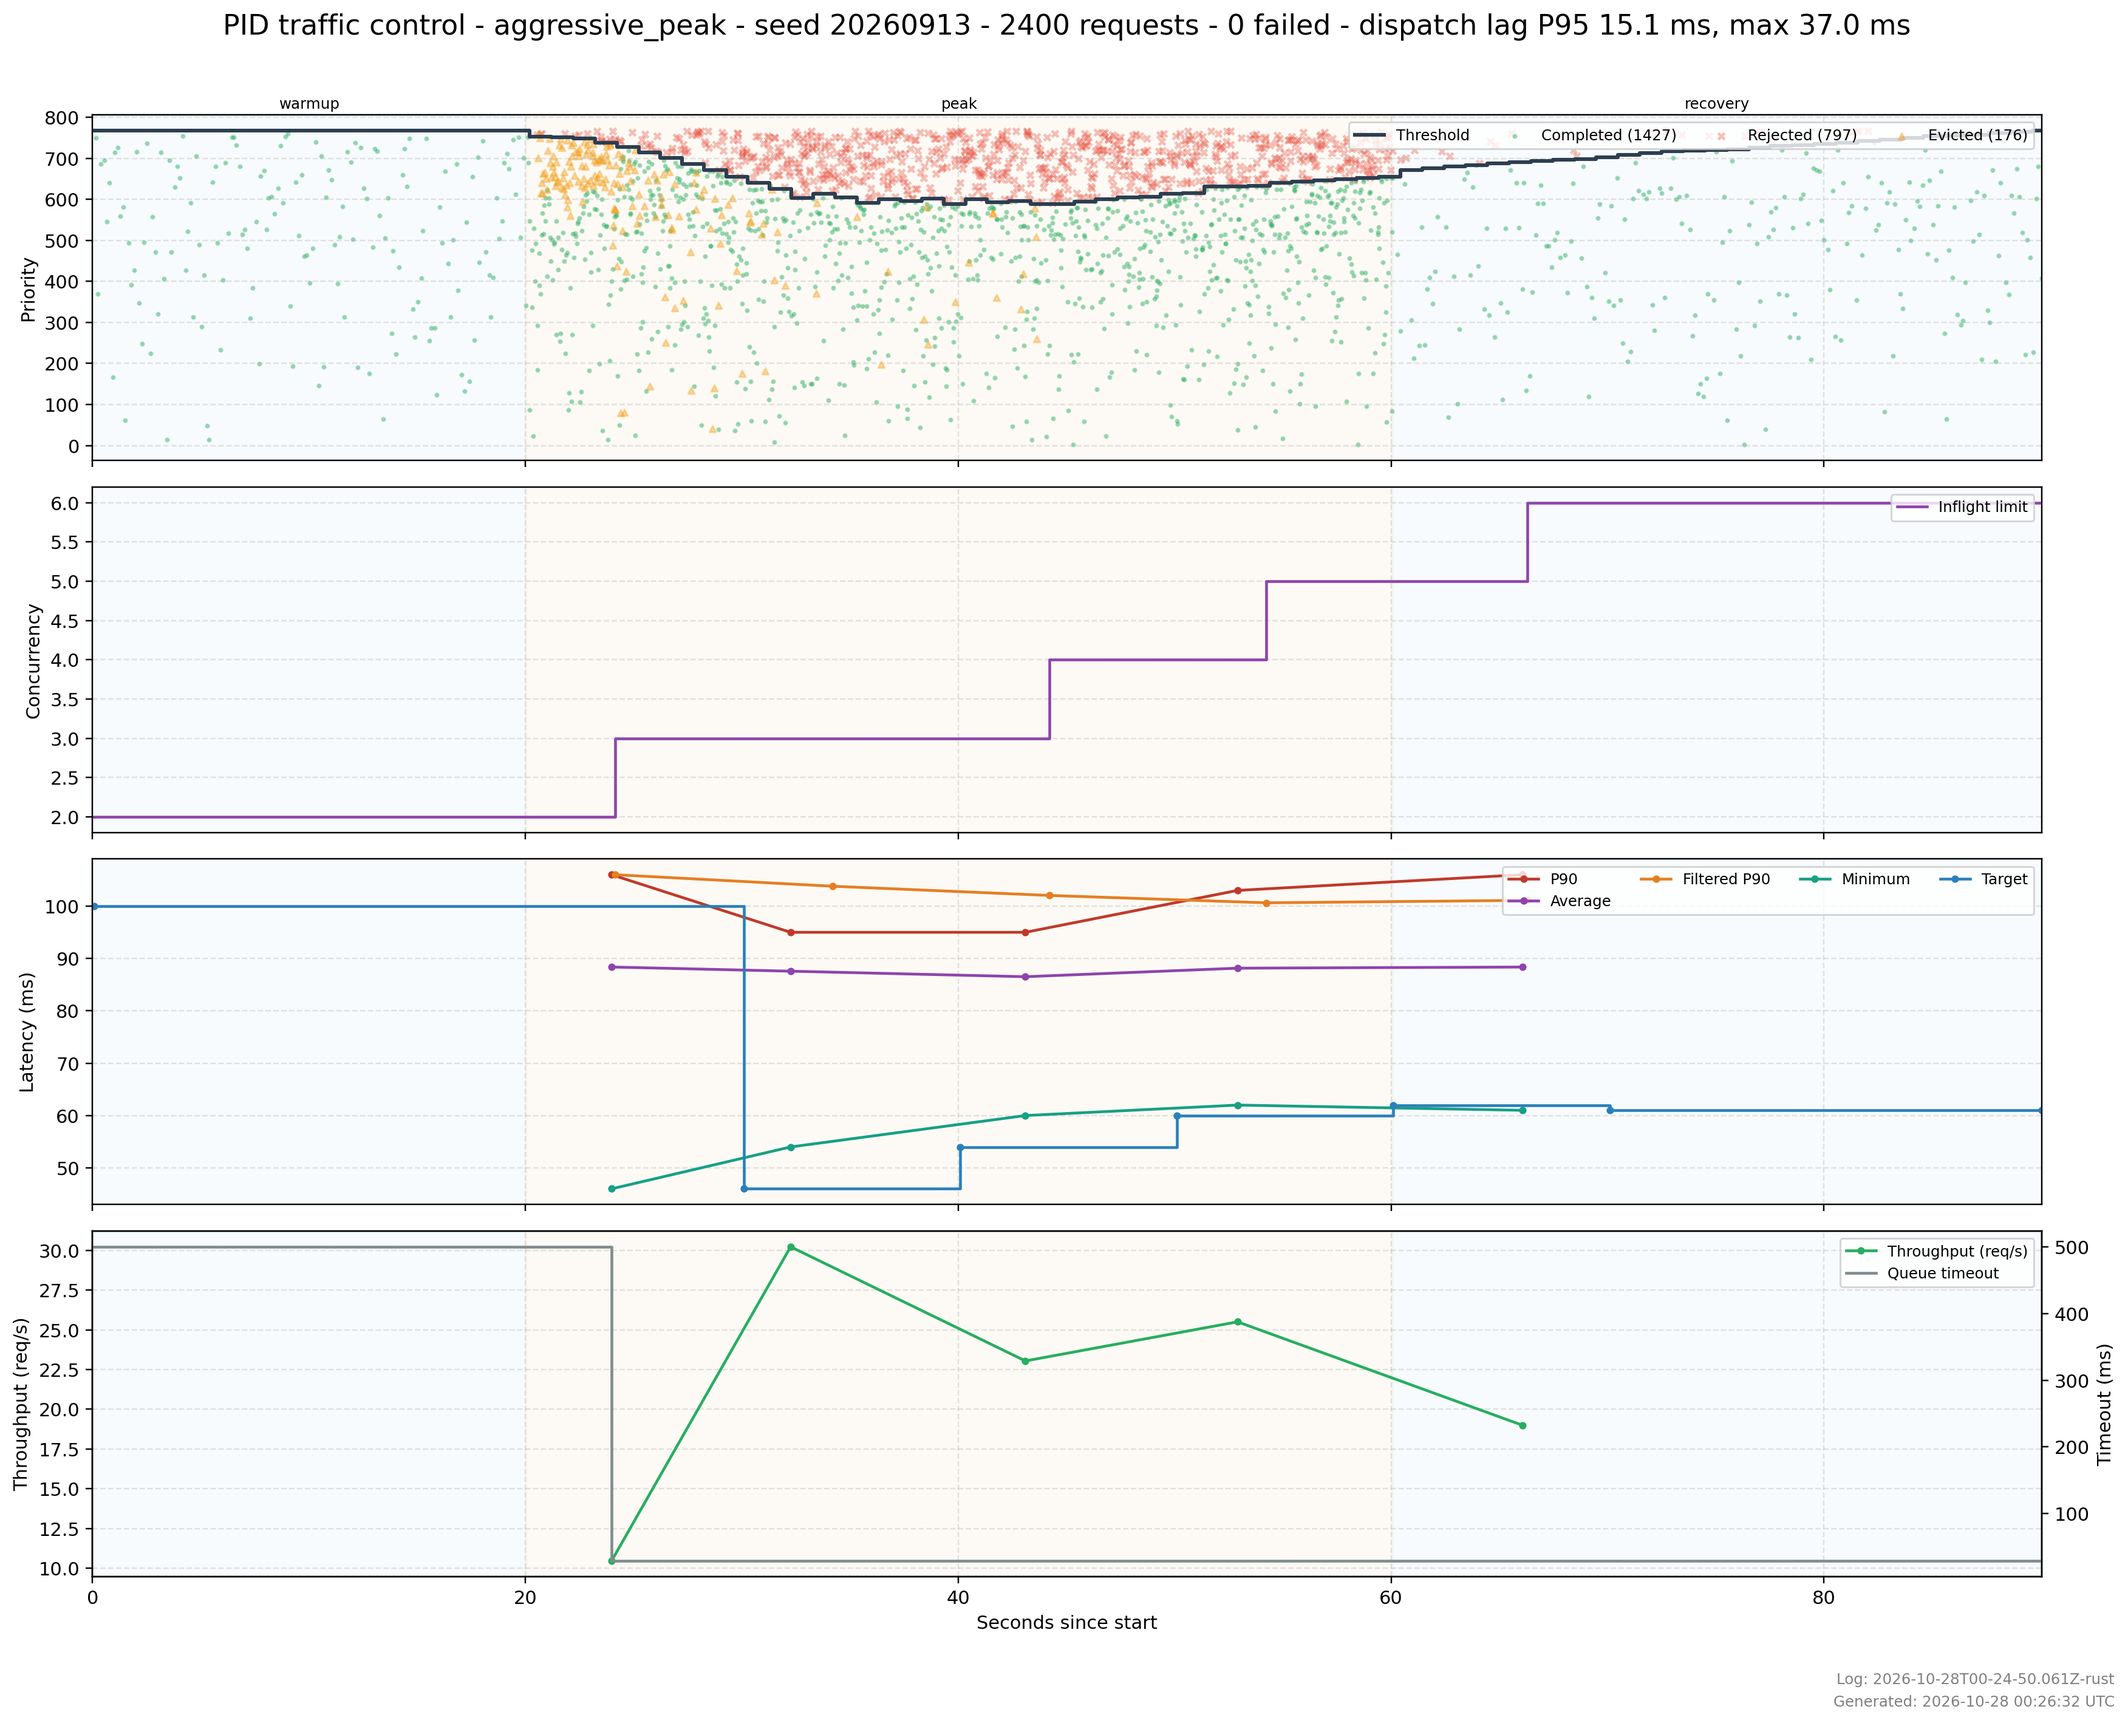
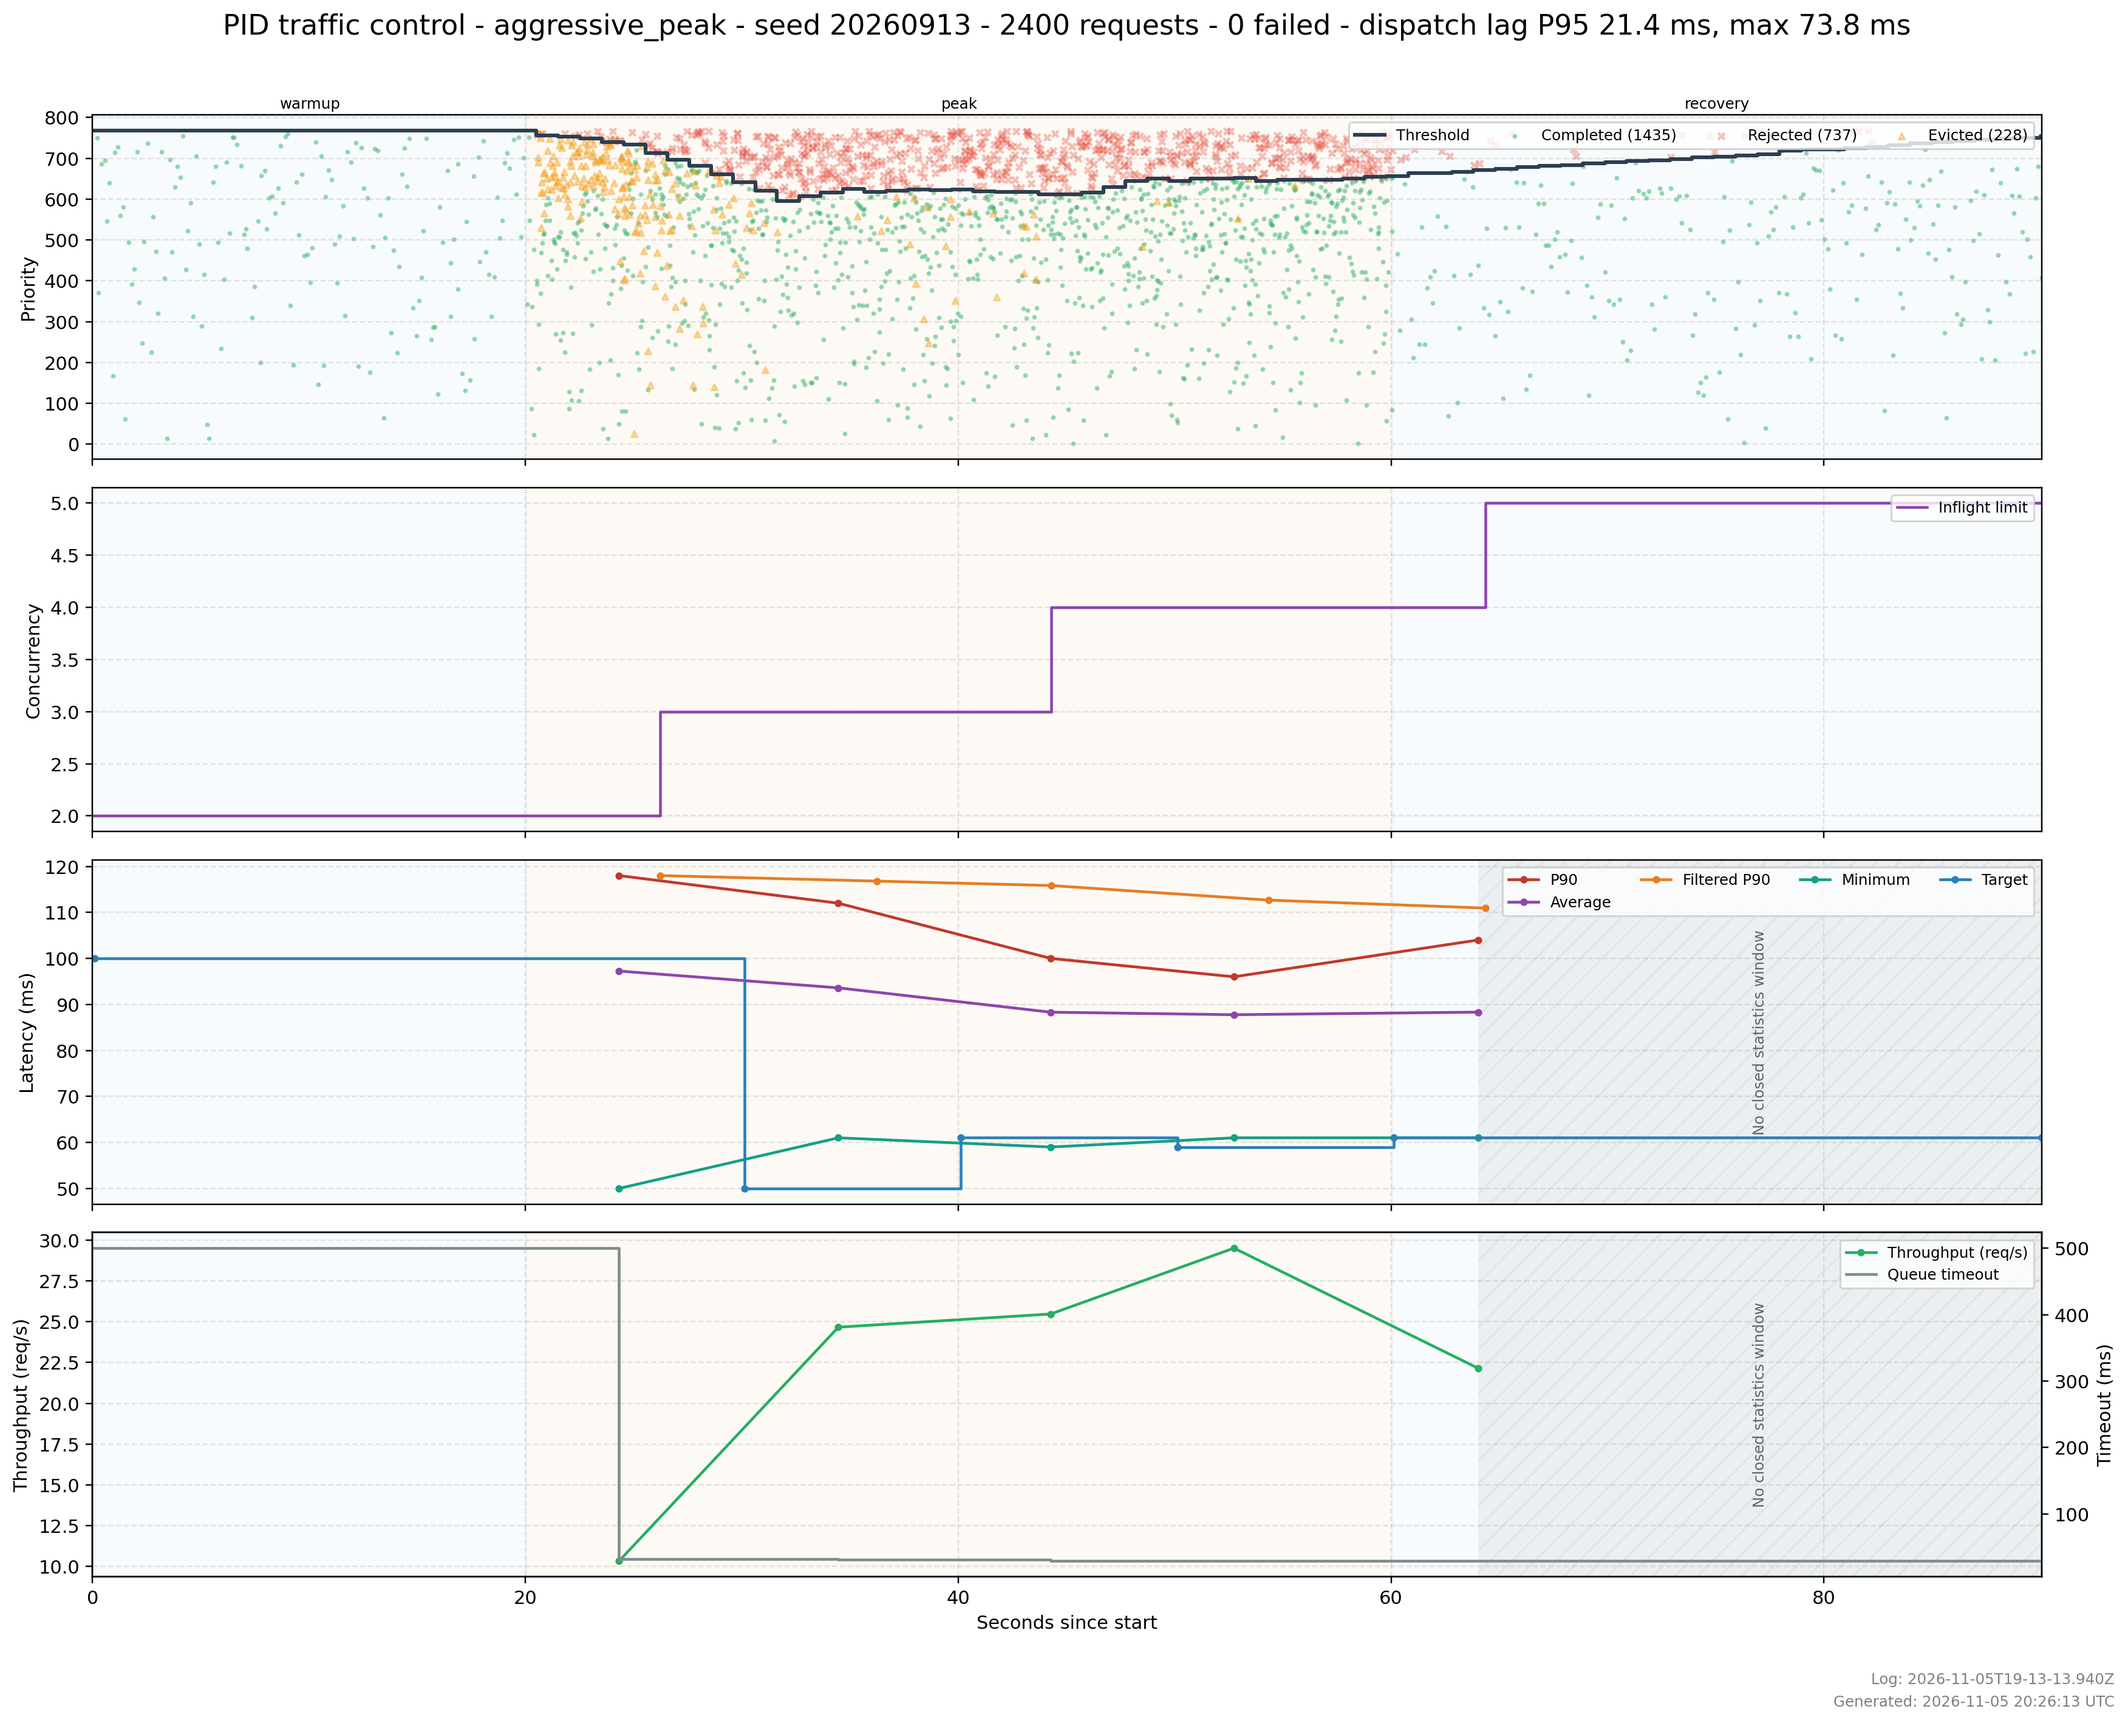
fix(simulation): mark incomplete statistics windows

diff --git a/simulation/scripts/logs_reader.py b/simulation/scripts/logs_reader.py
@@ -202,6 +202,29 @@ def extended_state_series(
     return extended
 
 
+def latest_statistics_timestamp(data: dict) -> float | None:
+    timestamps = [
+        timestamp
+        for key in ("percentile_latency", "minimum_latency", "average_latency", "throughput")
+        for timestamp, _ in data[key]
+    ]
+    return max(timestamps, default=None)
+
+
+def shade_incomplete_statistics_window(axes, data: dict) -> None:
+    start = latest_statistics_timestamp(data)
+    duration = data["duration"]
+    if start is None or start >= duration:
+        return
+
+    for axis in axes:
+        axis.axvspan(start, duration, facecolor="#7f8c8d", alpha=0.10,
+                     hatch="//", edgecolor="#7f8c8d", linewidth=0, zorder=0.5)
+        axis.text((start + duration) / 2, 0.5, "No closed statistics window",
+                  ha="center", va="center", rotation=90, fontsize=8, color="#626567",
+                  transform=axis.get_xaxis_transform(), zorder=3)
+
+
 def shade_phases(axes, phases: list[tuple[float, str]], duration: float) -> None:
     colors = ("#dceef8", "#f9e4c8")
     for index, (start, name) in enumerate(phases):
@@ -275,6 +298,7 @@ def render_report(data: dict, output: Path = DEFAULT_IMAGE, show: bool = True) -
         throughput_axis.legend(lines, [line.get_label() for line in lines], loc="upper right", fontsize=8)
 
     shade_phases(axes, data["phases"], data["duration"])
+    shade_incomplete_statistics_window((latency_axis, throughput_axis), data)
     for axis in axes:
         axis.grid(True, linestyle="--", alpha=0.35)
         axis.set_xlim(0, max(1, data["duration"]))

diff --git a/simulation/tests/test_logs_reader.py b/simulation/tests/test_logs_reader.py
@@ -148,6 +148,26 @@ class LogsReaderTest(unittest.TestCase):
 
         self.assertEqual(result, [(2.0, 2.0), (5.0, 4.0), (10.0, 4.0)])
 
+    def test_finds_latest_closed_statistics_timestamp(self):
+        data = {
+            "percentile_latency": [(3.0, 80.0), (5.0, 90.0)],
+            "minimum_latency": [(3.0, 50.0), (5.0, 60.0)],
+            "average_latency": [(3.0, 65.0), (5.0, 75.0)],
+            "throughput": [(3.0, 20.0), (5.0, 25.0)],
+        }
+
+        self.assertEqual(logs_reader.latest_statistics_timestamp(data), 5.0)
+
+    def test_latest_statistics_timestamp_is_absent_without_snapshots(self):
+        data = {
+            "percentile_latency": [],
+            "minimum_latency": [],
+            "average_latency": [],
+            "throughput": [],
+        }
+
+        self.assertIsNone(logs_reader.latest_statistics_timestamp(data))
+
     def test_selects_latest_log_across_typescript_and_rust_names(self):
         with tempfile.TemporaryDirectory() as directory:
             logs = Path(directory)
